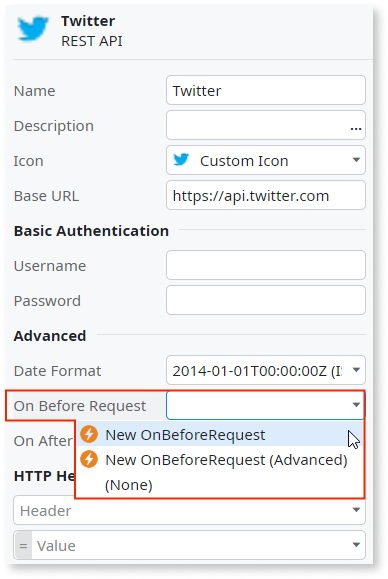
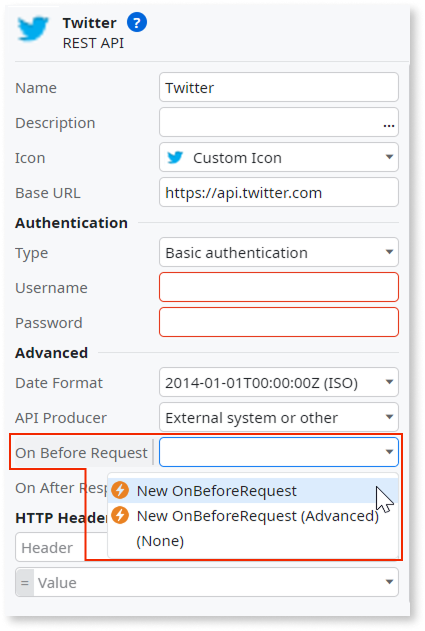
TK-20612 Update REST screenshots (#2672)

diff --git a/src/integration-with-systems/rest/expose-rest-apis/add-custom-authentication-to-an-exposed-rest-api.md b/src/integration-with-systems/rest/expose-rest-apis/add-custom-authentication-to-an-exposed-rest-api.md
@@ -17,9 +17,10 @@ outsystems-tools:
 coverage-type:
   - apply
   - understand
+isautopublish: true
 ---
 
-# Add Custom Authentication to an Exposed REST API
+# Add custom authentication to an exposed REST API
 
 OutSystems allows you to customize the authentication logic used in your exposed REST APIs.
 
@@ -29,11 +30,11 @@ For that, do the following:
 
 1. Select the exposed REST API you want to change and set its **Authentication** property to `Custom`.
 
-    ![Screenshot showing the available values for the Authentication property of an exposed REST API in OutSystems](images/ss-rest-authentication-options.png "Exposed REST API Authentication Options")
+    ![Screenshot showing the available values for the Authentication property of an exposed REST API in OutSystems](images/rest-authentication-options-custom-ss.png "Exposed REST API Authentication Options")
 
     As a result, OutSystems creates the **OnAuthentication** callback action in your REST API and executes it for every incoming request of this REST API, before the called method's action flow.
 
-    ![Screenshot of the OnAuthentication action flow in OutSystems for custom REST API authentication](images/ss-rest-onauthentication-custom-flow.png "OnAuthentication Custom Action Flow")
+    ![Screenshot of the OnAuthentication action flow in OutSystems for custom REST API authentication](images/rest-onauthentication-custom-flow-ss.png "OnAuthentication Custom Action Flow")
 
 1. In the **OnAuthentication** callback action, design the logic to authenticate the client. If you need to access data received in the URL, header or body of the HTTP request, you can use the [GetFormValue](../../../ref/apis/auto/httprequesthandler-api.final.md#GetFormValue), [GetRequestHeader](../../../ref/apis/auto/httprequesthandler-api.final.md#GetRequestHeader) or [GetRequestContent](../../../ref/apis/auto/httprequesthandler-api.final.md#GetRequestContent) actions of the [HTTPRequestHandler](../../../ref/apis/auto/httprequesthandler-api.final.md) extension.
 
@@ -138,7 +139,7 @@ Set the authentication logic to get the values of the HTTP headers and then chec
 
 1. Drag another **Run Server Action** element to the flow (before the **End** element) and select the "GetRequestHeader" Server Action again.
 
-1. Set its **HeaderName** input parameter to `"X-Contacts-Key"` to obtain the other required HTTP header value.
+1. Set its **HeaderName** input parameter to `"X-Contacts-Key"` so you can obtain the other required HTTP header value.
 
 1. Rename the element to `GetRequestHeaderApiKey`.
 
@@ -169,10 +170,10 @@ Test the logic of your custom authentication method using an API client like [Po
 
 1. Create a new test request pointing to the URL of a method of your exposed REST API (in the example, the "GetContacts" method), without including any extra headers.
 
-    ![Screenshot of a Postman test request without authentication headers resulting in an error message](images/rest-custom-auth-example-error.png "Postman Test Without Authentication Error")
+    ![Screenshot of a Postman test request without authentication headers resulting in an error message](images/rest-custom-auth-example-error-diag.png "Postman Test Without Authentication Error")
 
     You should get an error whose message you defined in the **Raise Exception** element.
 
 1. In the **Headers** sub-tab, add the required headers for authentication and check that you get the expected answer.
 
-![Screenshot of a successful authentication test in Postman with the required HTTP headers included](images/rest-custom-auth-example-success.png "Successful Authentication Test in Postman")
+![Screenshot of a successful authentication test in Postman with the required HTTP headers included](images/rest-custom-auth-example-success-diag.png "Successful Authentication Test in Postman")

diff --git a/src/integration-with-systems/rest/expose-rest-apis/add-basic-authentication-to-an-exposed-rest-api.md b/src/integration-with-systems/rest/expose-rest-apis/add-basic-authentication-to-an-exposed-rest-api.md
@@ -15,11 +15,10 @@ outsystems-tools:
 coverage-type:
   - apply
   - understand
+isautopublish: true
 ---
 
-# Add Basic Authentication to an Exposed REST API
-
-## Basic authentication
+# Add basic authentication to an exposed REST API
 
 Basic authentication is a simple authentication scheme built into the HTTP protocol. The client sends HTTP requests with the "Authorization" header containing the word "Basic", a space character, and a "username:password" string encoded in Base64.
 
@@ -47,14 +46,14 @@ For that, do the following:
 
 1. Select the exposed REST API you want to change and set its "Authentication" property to `Basic`.
 
-    ![Screenshot showing how to select the Basic authentication property for a REST API in OutSystems](images/rest-authentication-options-ss.png "REST API Authentication Property")
+    ![Screenshot showing how to select the Basic authentication property for a REST API in OutSystems](images/rest-authentication-options-basic-ss.png "REST API Authentication Property")
 
 As a result, OutSystems creates the "OnAuthentication" action in your REST API to handle basic authentication with:
 
 * The "Username" and "Password" input parameters holding the credentials passed in the request (they're automatically decoded from the "Authorization" HTTP header)
 * The "User_Login" action to validate the credentials and identify the user
 
-![Flow diagram of the OnAuthentication action handling basic authentication in OutSystems REST API](images/ss-rest-onauthentication-basic-flow.png "OnAuthentication Action Flow")
+![Flow diagram of the OnAuthentication action handling basic authentication in OutSystems REST API](images/rest-onauthentication-basic-flow-ss.png "OnAuthentication Action Flow")
 
 All methods in the REST API now require Basic Authentication. Manage user credentials in your end user management application (by default, the [Users application](../../../user-management/end-user-manage/accessing-users.md)).
 

diff --git a/src/integration-with-systems/rest/expose-rest-apis/customize-rest-api-responses.md b/src/integration-with-systems/rest/expose-rest-apis/customize-rest-api-responses.md
@@ -16,9 +16,10 @@ coverage-type:
   - apply
 topic:
   - custom-request-response
+isautopublish: true
 ---
 
-# Customize REST API Responses
+# Customize REST API responses
 
 OutSystems allows you to customize the information sent in responses when exposing a REST API.
 
@@ -28,13 +29,13 @@ For that, do the following:
 
 1. In the exposed REST API, set the property **On Response** to `New OnResponse`.
 
-    ![Screenshot showing where to set the On Response property in the OutSystems REST API configuration](images/ss-rest-expose-onresponse.png "Setting On Response Property")
+    ![Screenshot showing where to set the On Response property in the OutSystems REST API configuration](images/rest-expose-onresponse-ss.png "Setting On Response Property")
 
 1. Open the OnResponse callback action that's now available under the REST API.
 
 1. Design the logic to customize the information of the response.
 
-    ![Screenshot of the OnResponse callback action logic tree in OutSystems](images/ss-rest-expose-onresponse-tree.png "OnResponse Callback Action Logic")
+    ![Screenshot of the OnResponse callback action logic tree in OutSystems](images/rest-expose-onresponse-tree-ss.png "OnResponse Callback Action Logic")
 
     You can get the text of the response by accessing the "ResponseText" attribute of the "Response" input parameter or its binary contents by accessing the "ResponseBinary" attribute.
 

diff --git a/src/integration-with-systems/rest/expose-rest-apis/preprocess-rest-api-requests.md b/src/integration-with-systems/rest/expose-rest-apis/preprocess-rest-api-requests.md
@@ -14,9 +14,10 @@ outsystems-tools:
   - service studio
 coverage-type:
   - apply
+isautopublish: true
 ---
 
-# Preprocess REST API Requests
+# Preprocess REST API requests
 
 OutSystems allows you to run logic before executing each request of an exposed REST API.
 
@@ -26,13 +27,13 @@ For that, do the following:
 
 1. In the REST API, set the property "On Request" to `New OnRequest`.
 
-    ![Screenshot showing the REST API properties with 'On Request' set to 'New OnRequest'.](images/ss-rest-expose-onrequest.png "Setting the OnRequest Property")
+    ![Screenshot showing the REST API properties with 'On Request' set to 'New OnRequest'.](images/rest-expose-onrequest-ss.png "Setting the OnRequest Property")
 
 1. Open the "OnRequest" callback action that is now available under the REST API.
 
 1. Design the logic to preprocess the request.
 
-    ![Screenshot of the OnRequest callback logic tree in OutSystems with RequestText and RequestBinary attributes.](images/ss-rest-expose-onrequest-tree.png "OnRequest Callback Logic Tree")
+    ![Screenshot of the OnRequest callback logic tree in OutSystems with RequestText and RequestBinary attributes.](images/rest-expose-onrequest-tree-ss.png "OnRequest Callback Logic Tree")
 
     You can get the text of the request by accessing the "RequestText" attribute of the "Request" input parameter or its binary contents by accessing the "RequestBinary" attribute.
 